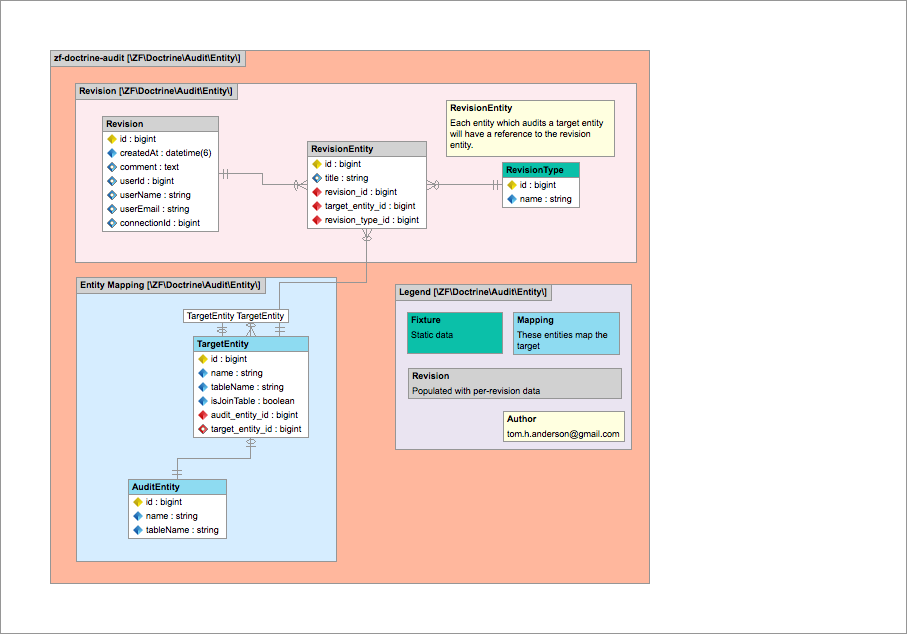
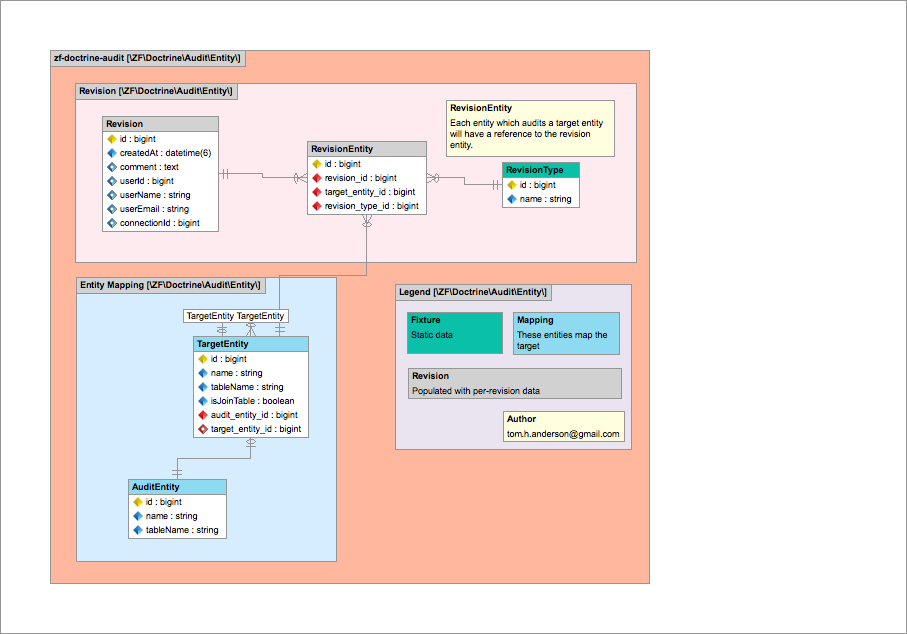
Removed comment from RevisionEntity

diff --git a/src/Entity/RevisionEntity.php b/src/Entity/RevisionEntity.php
@@ -8,11 +8,6 @@ namespace ZF\Doctrine\Audit\Entity;
 class RevisionEntity
 {
     /**
-     * @var string
-     */
-    private $title;
-
-    /**
      * @var integer
      */
     private $id;
@@ -37,30 +32,6 @@ class RevisionEntity
      */
     public function __construct()
     {
-    }
-
-    /**
-     * Set title
-     *
-     * @param string $title
-     *
-     * @return RevisionEntity
-     */
-    public function setTitle($title)
-    {
-        $this->title = $title;
-
-        return $this;
-    }
-
-    /**
-     * Get title
-     *
-     * @return string
-     */
-    public function getTitle()
-    {
-        return $this->title;
     }
 
     /**
